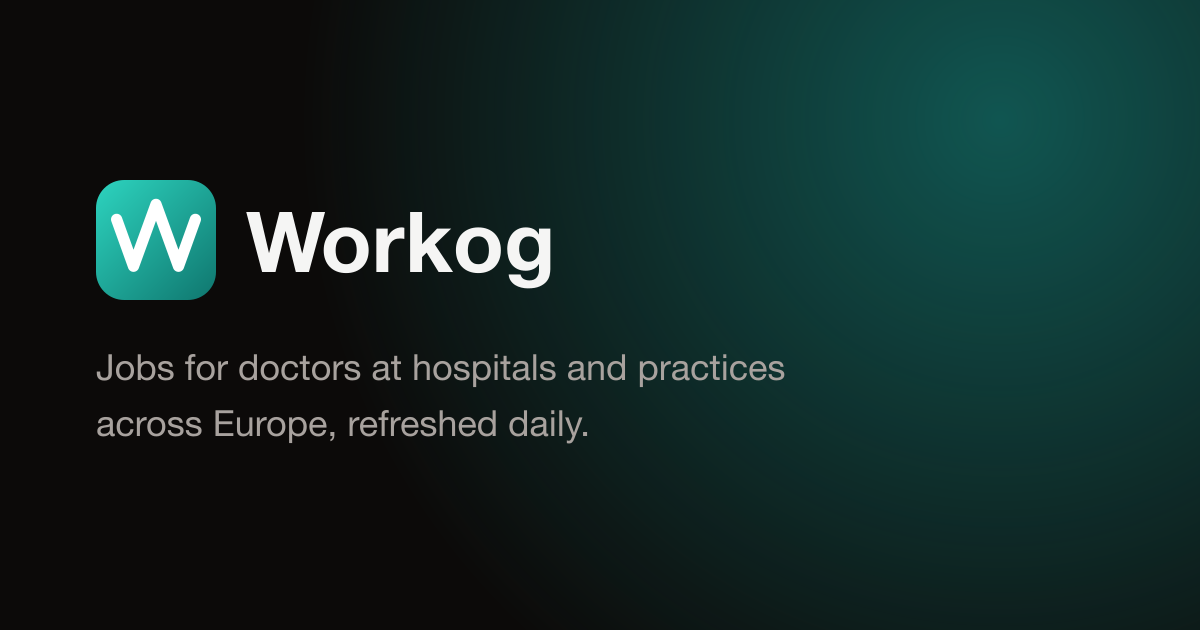
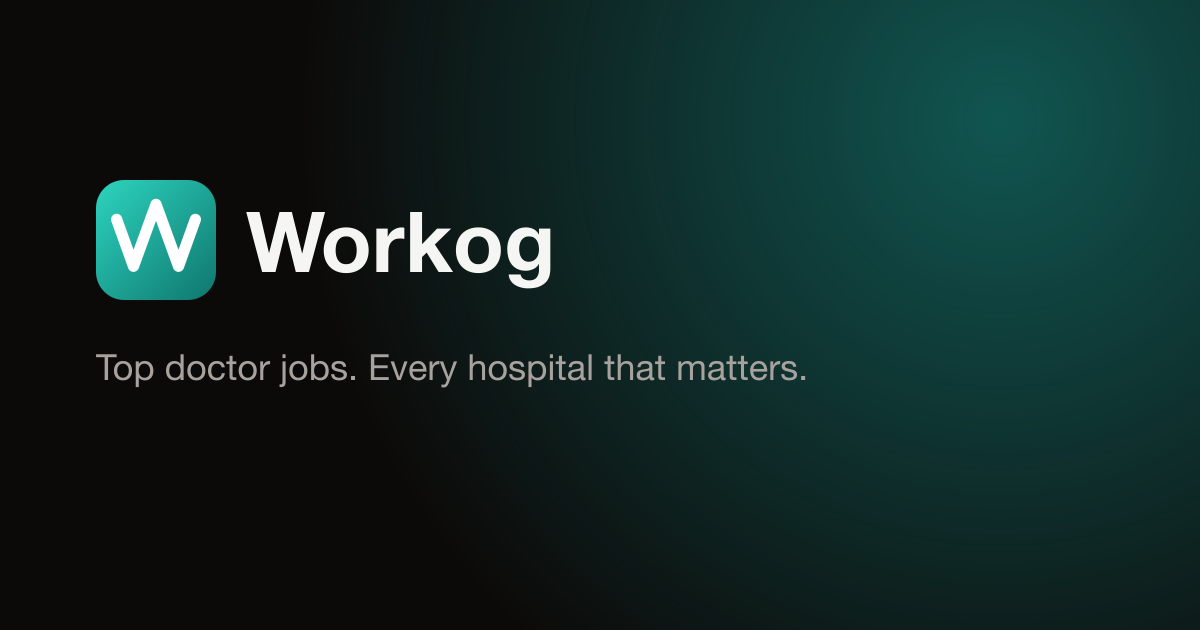
New share image slogans; og.png is now the start page's image
The start page reads "Top tech jobs. Top doctor jobs.", the tech section
"Top tech jobs. Every company that matters." and the medical section
"Top doctor jobs. Every hospital that matters.", in place of the
"refreshed daily" lines. The app manifest takes the start page's slogan.

The tech image moves from og.png to og-tech.png, and the start page's from
og-start.png to og.png, so the plain name is the site-wide image.

Changed region(s): [[0.0617, 0.5429, 0.6783, 0.6032], [0.0617, 0.6635, 0.4933, 0.6937]]

diff --git a/scripts/og-images.ts b/scripts/og-images.ts
@@ -1,6 +1,7 @@
 /**
- * Renders the 1200×630 share images in public/: og.png for the tech section,
- * og-medicine.png for the medical section and og-start.png for the start page.
+ * Renders the 1200×630 share images in public/: og.png for the start page
+ * (and any page without a section), og-tech.png for the tech section and
+ * og-medicine.png for the medical section.
  * Base.astro picks one by the page's section. Run after changing the copy:
  *
  *   bun scripts/og-images.ts
@@ -20,9 +21,9 @@ interface Image {
 }
 
 export const images: Image[] = [
-  { file: "og.png", variant: "tech", glow: "#1e3a8a", lines: ["Open jobs at top tech companies, refreshed daily", "from official career sites."] },
-  { file: "og-medicine.png", variant: "medicine", glow: "#115e59", lines: ["Jobs for doctors at hospitals and practices", "across Europe, refreshed daily."] },
-  { file: "og-start.png", variant: "start", glow: "#1e3a8a", lines: ["Tech jobs and jobs for doctors, refreshed daily", "from the employers."] },
+  { file: "og-tech.png", variant: "tech", glow: "#1e3a8a", lines: ["Top tech jobs. Every company that matters."] },
+  { file: "og-medicine.png", variant: "medicine", glow: "#115e59", lines: ["Top doctor jobs. Every hospital that matters."] },
+  { file: "og.png", variant: "start", glow: "#1e3a8a", lines: ["Top tech jobs. Top doctor jobs."] },
 ];
 
 const svg = ({ variant, glow, lines }: Image) => `<svg xmlns="http://www.w3.org/2000/svg" width="1200" height="630" viewBox="0 0 1200 630">
